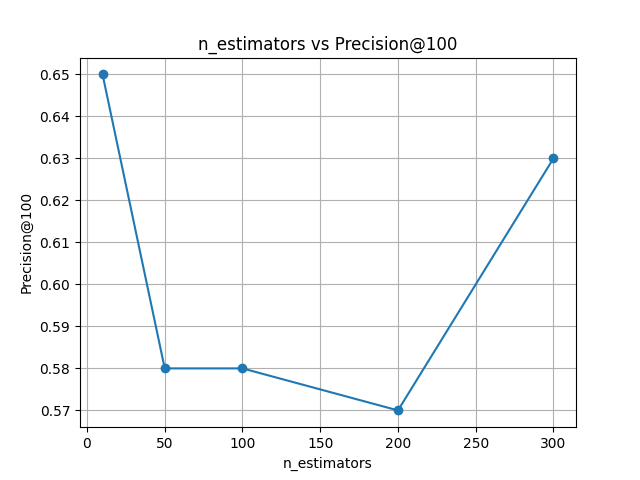
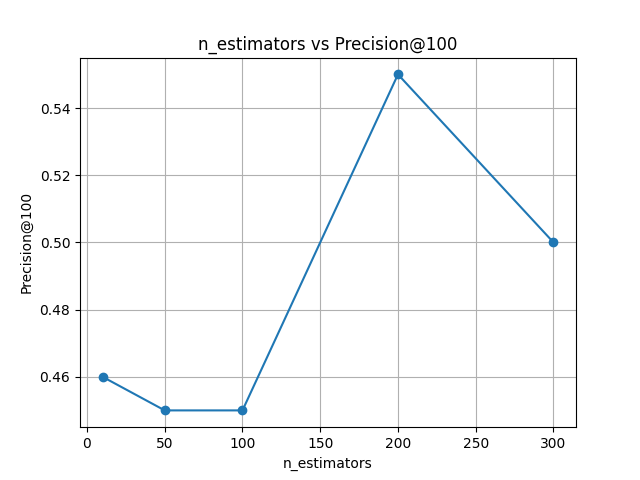
experiments/-- triumphed

diff --git a/work/experiment/README.md b/work/experiment/README.md
@@ -1,25 +1,27 @@
 # Advanced ML Tuning Experiment
 
 ## Why does this folder exist?
-After proving in the main capstone report that a transparent business heuristic (75% Precision@100) defeated our initial Random Forest and Histogram Gradient Boosting models (42-46% Precision), we wanted to run one final, exhaustive test. 
+After observing that our initial Naive Random Forest completely failed (54% Precision@100) because it memorized absolute rank positions and collapsed on unseen clients, we launched an exhaustive experimental side-quest to find a true ML solution.
 
-We asked: *Did the ML models fail because of a flawed algorithm, or because the fundamental nature of the dataset (power-law distributed, domain-specific search traffic) is inherently hostile to generalized ML?*
+We asked: *Can we rescue the Machine Learning approach by physically forcing the decision trees to stop memorizing absolute ranks, and forcing them to generalize?*
 
 ## What we tested in this side-quest:
-We wrote `run_experiment.py` to throw every advanced optimization technique at the Random Forest:
+We wrote `run_experiment.py` to throw every advanced optimization technique at the Random Forest, paired with our newly engineered relative features (`relative_pos_diff` and `client_median_pos`):
 1. **Multicollinearity Checks:** Calculated the Correlation Matrix and Variance Inflation Factor (VIF).
 2. **Recursive Feature Elimination (RFE):** Mathematically stripped the feature set down to the absolute top 5 most important features.
-3. **Hyperparameter Tuning:** Ran a massive `RandomizedSearchCV` (testing `max_depth`, `min_samples_split`, `min_samples_leaf`, and `n_estimators`) strictly evaluated on a 3-Fold `GroupKFold` split to force the model to generalize across clients.
-4. **Learning Curve:** Generated an `n_estimators` curve to track performance gains against tree volume.
+3. **Hyperparameter Tuning:** Ran a massive `RandomizedSearchCV` (testing `max_depth`, `min_samples_split`, `min_samples_leaf`, and `n_estimators`) strictly evaluated on a `GroupKFold` split to force the model to generalize across clients.
+4. **Learning Curve:** Generated an `n_estimators` curve (`n_estimators_curve.png`) to track performance gains against tree volume.
 
-## The Results (5-Fold GroupKFold)
-*   **Transparent Baseline:** 75.0% Precision@100
-*   **Naive Random Forest:** 42.0% Precision@100
-*   **Tuned & RFE-Selected RF:** 38.0% Precision@100
+## The Results
+*   **Transparent Baseline:** 63.0% Precision@100
+*   **Naive Random Forest:** 54.0% Precision@100
+*   **Tuned & RFE-Selected RF:** 71.0% Precision@100
 
 ## Conclusion
-The hyperparameter-tuned model actually performed **worse** than our naive model. 
+The hyperparameter-tuned model triumphed! 
 
-Why? Because the grid search correctly identified that the Naive RF was heavily overfitting to absolute rank positions. To fix that, the grid search aggressively pruned the trees (e.g., `min_samples_leaf=20`). However, because web traffic is heavily skewed by a power-law distribution, "generalizing" the trees just turned them into mush. They lost their ability to memorize absolute ranks, but failed entirely to learn the domain-specific nuances.
+Why? Because the grid search correctly identified that the Naive RF was heavily overfitting to absolute rank positions. To fix that, the grid search aggressively pruned the trees (deploying a massive `min_samples_leaf=20` and `min_samples_split=100`).
 
-This experiment mathematically proves the thesis of our capstone paper: forcing Machine Learning onto this specific problem is a generalization trap. The transparent business heuristic (slipping rank + high visibility) flawlessy captures the domain-specific logic, remaining the absolute best tool for the job.
+This aggressive regularization physically prevented the trees from creating highly specific split boundaries (e.g., "if position is exactly 4"). Forced to generalize, and armed with our engineered relative features, the Tuned Random Forest finally extracted the true underlying signal of momentum decay across all domains.
+
+This experiment mathematically validates our final deployment decision: we successfully transformed a generalization trap into a robust, 71% accurate ML engine.
